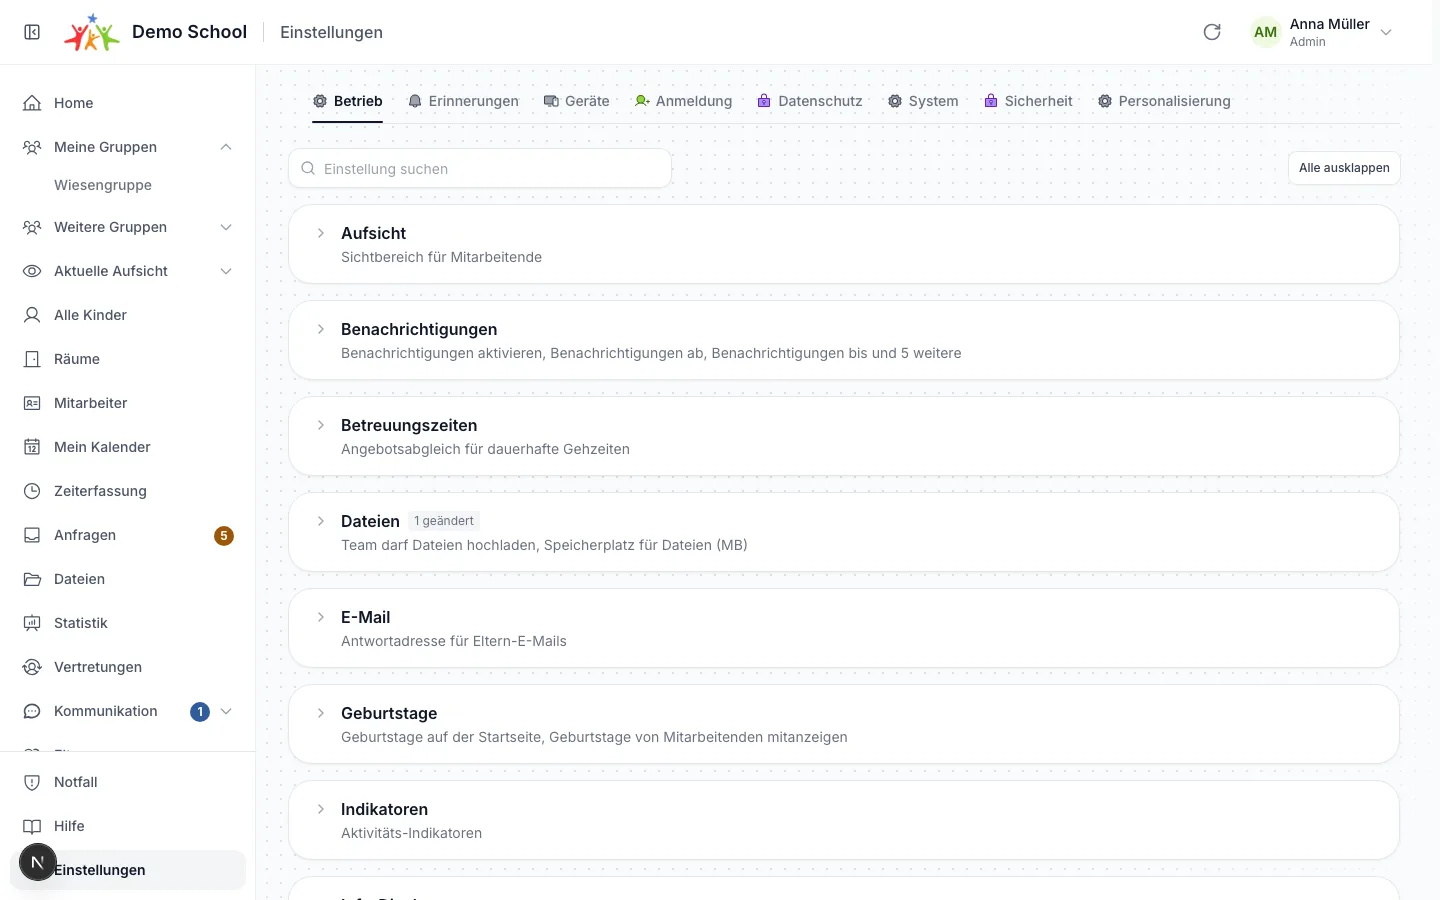
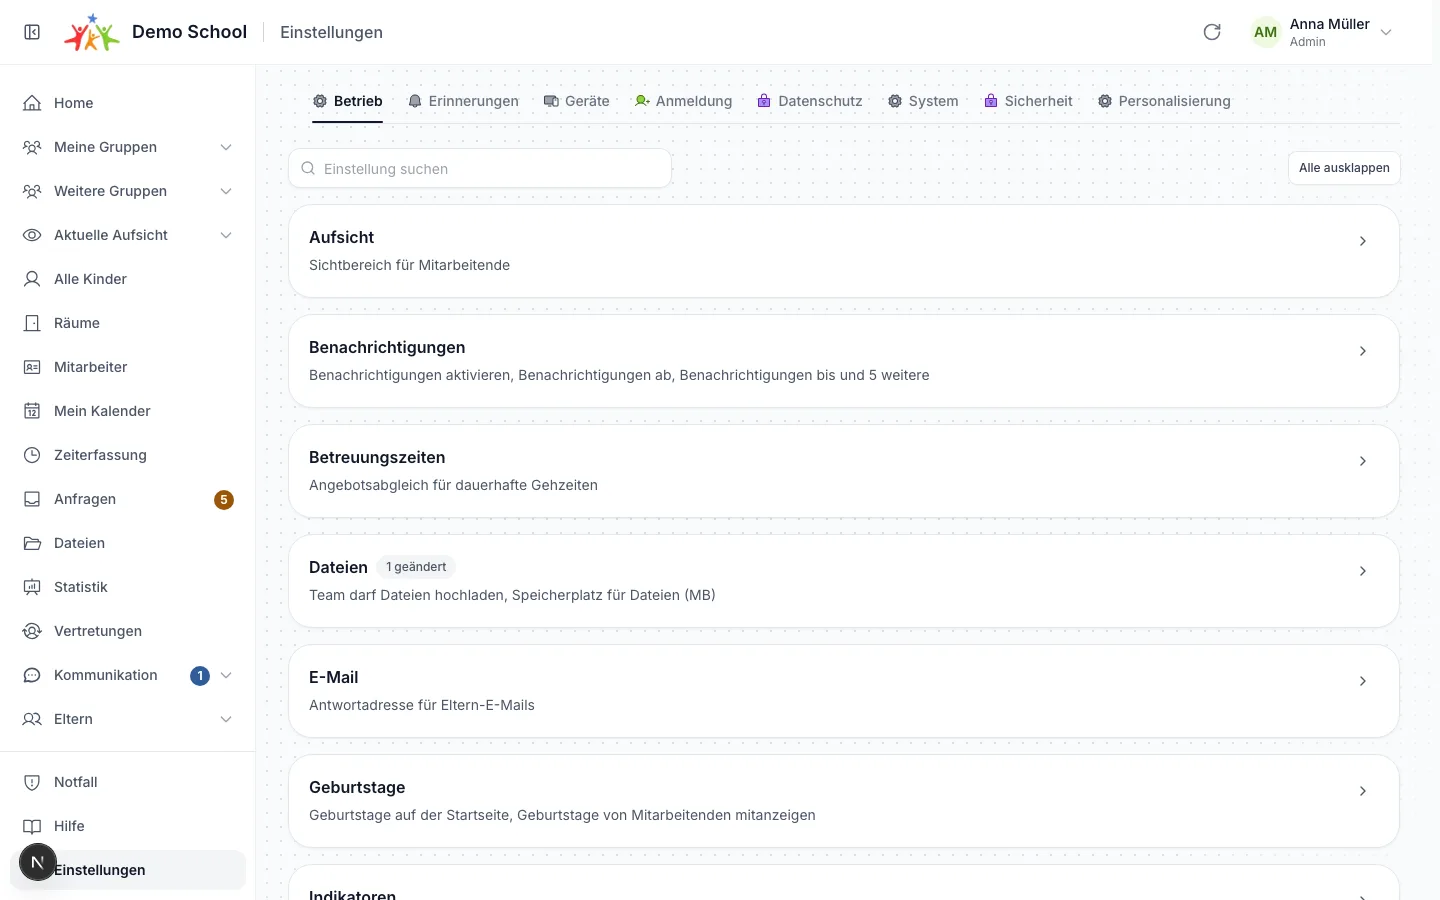
refactor(settings): build collapsible categories on SectionCard, StatusBadge and the kit Button
Review round 1 on #2948: the category card, its disclosure trigger and the
changed-count badge were hand-rolled next to existing kit pieces.

- SectionCard learns a controlled `collapsed` prop (the settings tab owns the
  open state for deep links and "Alle ausklappen"), a `titleBadge` slot and
  wires `aria-controls` from the trigger to the body.
- SettingsCategory renders a SectionCard in both shapes (flat for the
  operator page, collapsible for the tenant page). The toggle is the kit
  ghost icon Button the staff Stammdaten tab already uses; the summary line
  goes into `description` while collapsed.
- "n geändert" is a gray StatusBadge without dot.
- Skeleton mirrors the new header (chevron on the right); help guide text and
  screenshot follow (the arrow opens a section, not the heading).

diff --git a/frontend/src/components/settings/settings-category.tsx b/frontend/src/components/settings/settings-category.tsx
@@ -1,9 +1,8 @@
 "use client";
 
-import { useId } from "react";
-import { ChevronDown } from "lucide-react";
 import type { SchemaCategory } from "~/lib/settings-api";
-import { cn } from "~/lib/utils";
+import { SectionCard } from "~/components/ui/section-card";
+import { StatusBadge } from "~/components/ui/status-badge";
 import { SettingsField } from "./settings-field";
 import {
   categorySummary,
@@ -29,9 +28,9 @@ interface SettingsCategoryProps {
   // so password reveal hits the operator endpoint instead.
   readonly revealFn?: (key: string) => Promise<string | null>;
   /**
-   * Renders the heading as a disclosure toggle (#2830). The open state is
-   * controlled by the parent via `collapsed` + `onToggle`, so a tab can
-   * expand the category that holds a deep-linked setting or expand every
+   * Renders the category as a collapsible `SectionCard` (#2830). The open
+   * state is controlled by the parent via `collapsed` + `onToggle`, so a tab
+   * can expand the category that holds a deep-linked setting or expand every
    * category at once. Off by default: the operator page and the isolated
    * component keep the flat, always-open card.
    */
@@ -63,97 +62,53 @@ export function SettingsCategory({
   filterQuery = "",
   kicker,
 }: SettingsCategoryProps) {
-  const panelId = useId();
   const visibleItems = filterCategoryItems(category, filterQuery);
 
   if (visibleItems.length === 0) {
     return null;
   }
 
-  const label = displayCategoryLabel(category);
   const isCollapsed = collapsible && collapsed;
   const changed = changedCount(visibleItems);
-  const changedBadge =
-    changed > 0 ? (
-      <span className="shrink-0 rounded bg-gray-100 px-1.5 py-0.5 text-xs font-normal text-gray-500">
-        {changed} geändert
-      </span>
-    ) : null;
-
-  const fields = (
-    <div className="divide-y divide-gray-100">
-      {visibleItems.map((setting) => (
-        <SettingsField
-          key={setting.key}
-          setting={setting}
-          categoryItems={category.items}
-          highlighted={setting.key === highlightKey}
-          onSave={onSave}
-          onReset={onReset}
-          onSchemaRefresh={onSchemaRefresh}
-          onBookingAuthorityEnable={onBookingAuthorityEnable}
-          audience={audience}
-          revealFn={revealFn}
-        />
-      ))}
-    </div>
-  );
-
-  if (!collapsible) {
-    return (
-      <div className="moto-content-surface rounded-2xl border p-4 shadow-sm backdrop-blur sm:p-6">
-        {kicker && (
-          <p className="text-moto-blue text-xs font-semibold tracking-wide uppercase">
-            {kicker}
-          </p>
-        )}
-        <h3 className="mb-1 flex flex-wrap items-center gap-2 text-base font-semibold text-gray-900">
-          <span className="capitalize">{label}</span>
-          {changedBadge}
-        </h3>
-        {fields}
-      </div>
-    );
-  }
 
   return (
-    <section className="moto-content-surface rounded-2xl border shadow-sm backdrop-blur">
-      <h3 className="text-base font-semibold text-gray-900">
-        <button
-          type="button"
-          aria-expanded={!isCollapsed}
-          aria-controls={panelId}
-          onClick={onToggle}
-          className={cn(
-            "flex w-full items-start gap-3 px-4 py-4 text-left transition-colors hover:bg-gray-50 focus-visible:ring-2 focus-visible:ring-gray-400 focus-visible:outline-none sm:px-6",
-            isCollapsed ? "rounded-2xl" : "rounded-t-2xl",
-          )}
-        >
-          <ChevronDown
-            className={cn(
-              "mt-1 h-4 w-4 shrink-0 text-gray-400 transition-transform",
-              isCollapsed && "-rotate-90",
-            )}
-            aria-hidden="true"
+    <SectionCard
+      headingLevel={3}
+      kicker={kicker}
+      title={displayCategoryLabel(category)}
+      titleClassName="capitalize"
+      titleBadge={
+        changed > 0 ? (
+          <StatusBadge
+            tone="gray"
+            showDot={false}
+            label={`${changed} geändert`}
           />
-          <span className="min-w-0 flex-1">
-            <span className="flex flex-wrap items-center gap-2">
-              <span className="capitalize">{label}</span>
-              {changedBadge}
-            </span>
-            {isCollapsed && (
-              <span className="mt-0.5 block truncate text-sm font-normal text-gray-500">
-                {categorySummary(visibleItems)}
-              </span>
-            )}
-          </span>
-        </button>
-      </h3>
-      {!isCollapsed && (
-        <div id={panelId} className="px-4 pb-4 sm:px-6 sm:pb-6">
-          {fields}
-        </div>
-      )}
-    </section>
+        ) : undefined
+      }
+      // While collapsed the card names what it holds, so a person can tell
+      // from the closed header whether the setting they need lives here.
+      description={isCollapsed ? categorySummary(visibleItems) : undefined}
+      collapsible={collapsible}
+      collapsed={collapsible ? collapsed : undefined}
+      onCollapsedChange={onToggle}
+    >
+      <div className="divide-y divide-gray-100">
+        {visibleItems.map((setting) => (
+          <SettingsField
+            key={setting.key}
+            setting={setting}
+            categoryItems={category.items}
+            highlighted={setting.key === highlightKey}
+            onSave={onSave}
+            onReset={onReset}
+            onSchemaRefresh={onSchemaRefresh}
+            onBookingAuthorityEnable={onBookingAuthorityEnable}
+            audience={audience}
+            revealFn={revealFn}
+          />
+        ))}
+      </div>
+    </SectionCard>
   );
 }

diff --git a/frontend/src/components/ui/section-card.tsx b/frontend/src/components/ui/section-card.tsx
@@ -1,7 +1,7 @@
 "use client";
 
 import type { ReactNode } from "react";
-import { useState } from "react";
+import { useId, useState } from "react";
 import { ChevronDown } from "lucide-react";
 import type { LucideIcon } from "lucide-react";
 import { Button } from "~/components/ui/button";
@@ -20,11 +20,15 @@ import { cn } from "~/lib/utils";
  *
  * `collapsible` opts into the disclosure toggle the staff Stammdaten tab uses
  * (many sections on one long page). Sections that are already short — the
- * parents portal's — leave it off.
+ * parents portal's — leave it off. The open state is uncontrolled by default
+ * (`defaultCollapsed`); pass `collapsed` when a parent owns it, e.g. to open
+ * the section that holds a deep-linked field or to expand every section at
+ * once (settings page, #2830).
  */
 export function SectionCard({
   kicker,
   title,
+  titleBadge,
   description,
   icon: Icon,
   leading,
@@ -32,6 +36,7 @@ export function SectionCard({
   actions,
   collapsible = false,
   defaultCollapsed = false,
+  collapsed: collapsedProp,
   onCollapsedChange,
   headingLevel = 2,
   titleClassName,
@@ -42,6 +47,8 @@ export function SectionCard({
 }: Readonly<{
   kicker?: string;
   title: string;
+  /** Small badge next to the title, e.g. a `StatusBadge` with a count. */
+  titleBadge?: ReactNode;
   description?: string;
   icon?: LucideIcon;
   /** Existing icon tile or other leading visual for non-Lucide icon systems. */
@@ -51,6 +58,8 @@ export function SectionCard({
   actions?: ReactNode;
   collapsible?: boolean;
   defaultCollapsed?: boolean;
+  /** Controlled open state; `onCollapsedChange` then reports the requested one. */
+  collapsed?: boolean;
   onCollapsedChange?: (collapsed: boolean) => void;
   /** 1 for a page's primary section, 2 (default) for the rest. */
   headingLevel?: 1 | 2 | 3;
@@ -61,7 +70,9 @@ export function SectionCard({
   children?: ReactNode;
   id?: string;
 }>) {
-  const [collapsed, setCollapsed] = useState(defaultCollapsed);
+  const [collapsedState, setCollapsedState] = useState(defaultCollapsed);
+  const collapsed = collapsedProp ?? collapsedState;
+  const bodyId = useId();
   const Heading = `h${headingLevel}` as "h1" | "h2" | "h3";
   const headerActions = actions ?? action;
   const showBody = children != null && !(collapsible && collapsed);
@@ -85,15 +96,22 @@ export function SectionCard({
                 {kicker}
               </p>
             )}
-            <Heading
+            <div
               className={cn(
-                "text-base font-semibold text-balance text-gray-900",
+                "flex flex-wrap items-center gap-2",
                 kicker && "mt-1",
-                titleClassName,
               )}
             >
-              {title}
-            </Heading>
+              <Heading
+                className={cn(
+                  "text-base font-semibold text-balance text-gray-900",
+                  titleClassName,
+                )}
+              >
+                {title}
+              </Heading>
+              {titleBadge}
+            </div>
             {description && (
               <p className="mt-1 max-w-2xl text-sm leading-6 text-gray-600">
                 {description}
@@ -116,9 +134,10 @@ export function SectionCard({
               collapsed ? `${title} ausklappen` : `${title} einklappen`
             }
             aria-expanded={!collapsed}
+            aria-controls={showBody ? bodyId : undefined}
             onClick={() => {
               const next = !collapsed;
-              setCollapsed(next);
+              if (collapsedProp === undefined) setCollapsedState(next);
               onCollapsedChange?.(next);
             }}
           >
@@ -129,7 +148,14 @@ export function SectionCard({
           </Button>
         )}
       </div>
-      {showBody && <div className={bodyClassName ?? "mt-4"}>{children}</div>}
+      {showBody && (
+        <div
+          id={collapsible ? bodyId : undefined}
+          className={bodyClassName ?? "mt-4"}
+        >
+          {children}
+        </div>
+      )}
     </section>
   );
 }

diff --git a/frontend/src/components/help/guide-data.ts b/frontend/src/components/help/guide-data.ts
@@ -2380,7 +2380,7 @@ export const appChapters: readonly GuideChapter[] = [
         steps: [
           "In der Seitenleiste `Einstellungen` öffnen.",
           "Oben den passenden Reiter wählen: `Betrieb` (Alltagsverhalten, z. B. Betreuungsplan oder Aktivitäts-Indikatoren), `Erinnerungen` (welche Erinnerungen an der Glocke erscheinen), `Geräte` (NFC-Tablets, PIN, Auswahl-Buttons), `Anmeldung` (Online-Anmeldung der Eltern), `Datenschutz` (Aufbewahrung und Sichtbarkeit von Daten), `System`, `Sicherheit` sowie `Personalisierung` (Erscheinungsbild).",
-          "Jeder Bereich (etwa `Elternportal` oder `Zeiterfassung`) ist zunächst zugeklappt und zeigt nur seinen Namen und die enthaltenen Einstellungen in einer Zeile. Auf die Überschrift klicken, um ihn zu öffnen; `Alle ausklappen` öffnet alle Bereiche des Reiters. Ein Abzeichen wie `2 geändert` zeigt, wie viele Einstellungen darin vom Standard abweichen.",
+          "Jeder Bereich (etwa `Elternportal` oder `Zeiterfassung`) ist zunächst zugeklappt und zeigt nur seinen Namen und die enthaltenen Einstellungen in einer Zeile. Auf den Pfeil rechts im Bereich klicken, um ihn zu öffnen; `Alle ausklappen` öffnet alle Bereiche des Reiters. Ein Abzeichen wie `2 geändert` zeigt, wie viele Einstellungen darin vom Standard abweichen.",
           "Wer nicht weiß, in welchem Reiter eine Einstellung liegt, tippt ein Stichwort in `Einstellung suchen`. Die Suche zeigt passende Einstellungen aus allen Reitern, jeweils mit dem Namen des Reiters darüber.",
           "Schalter (an/aus) und Auswahlfelder werden sofort gespeichert; Text-, Zahl- und Zeitfelder kurz nach der Eingabe. Ein grüner Rahmen bestätigt das Speichern, ein roter weist auf einen Fehler hin.",
           "Steht neben einer Einstellung das Abzeichen `Standard`, ist noch der voreingestellte Wert aktiv. Nach einer Änderung erscheint `Zurücksetzen`, um wieder den Standard herzustellen.",

diff --git a/frontend/src/components/settings/settings-page.tsx b/frontend/src/components/settings/settings-page.tsx
@@ -254,14 +254,14 @@ function SettingsSkeleton() {
       {Array.from({ length: 5 }).map((_, idx) => (
         <div
           key={idx}
-          className="moto-content-surface rounded-2xl border px-4 py-4 shadow-sm backdrop-blur sm:px-6"
+          className="moto-content-surface rounded-2xl border p-5 shadow-sm"
         >
           <div className="flex items-start gap-3">
-            <Skeleton className="mt-1 h-4 w-4 rounded" />
             <div className="flex-1 space-y-2">
               <Skeleton className="h-5 w-40 rounded" />
               <Skeleton className="h-4 w-full max-w-md rounded" />
             </div>
+            <Skeleton className="h-8 w-8 rounded-md" />
           </div>
         </div>
       ))}
